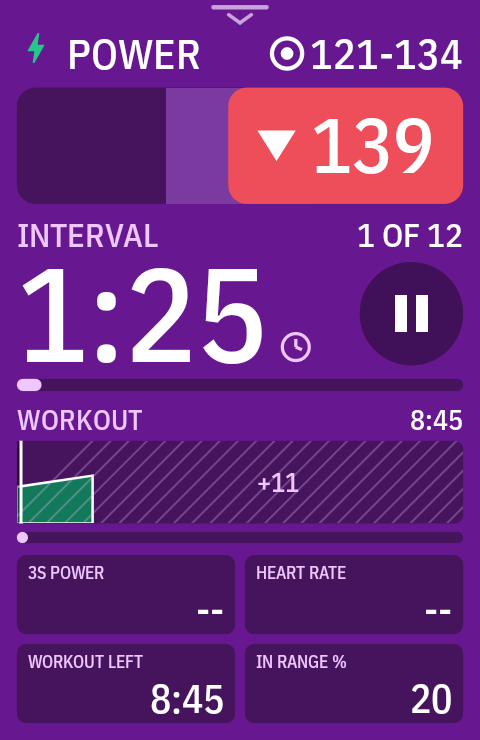
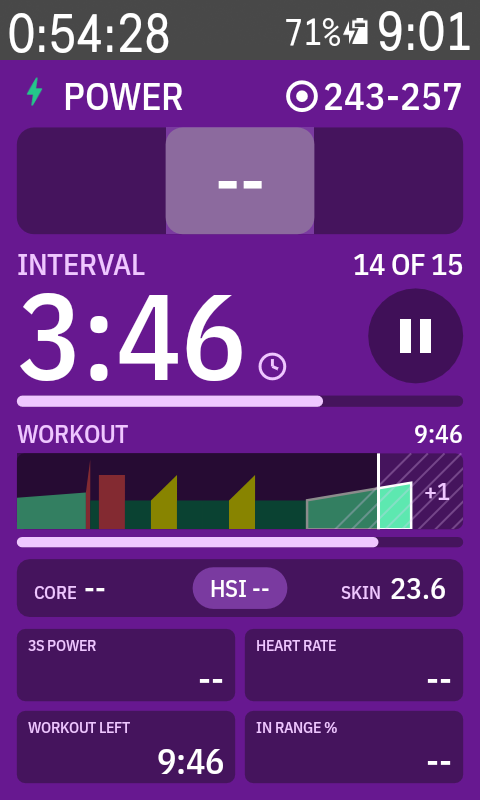
README: screenshot from a real ride
Workout+ on a Karoo 2 mid-workout (interval 14 of 15, core heat strip,
ride header above), replacing the demo-mode capture.

diff --git a/README.md b/README.md
@@ -21,7 +21,7 @@ Built on the official [karoo-ext](https://github.com/hammerheadnav/karoo-ext)
 extension API, in the style of [Climber+](https://github.com/hazzus/karoo-climber-plus).
 No system modification.
 
-| Workout+ (Karoo 2) | Chip (minimized) | The Karoo 2 workout page it covers |
+| Workout+ on a real ride (Karoo 2) | Chip (other pages) | The Karoo 2 workout page it covers |
 |---|---|---|
 | ![](docs/img/workout-page.png) | ![](docs/img/chip.png) | ![](docs/img/native-k2-workout-page.png) |
 
